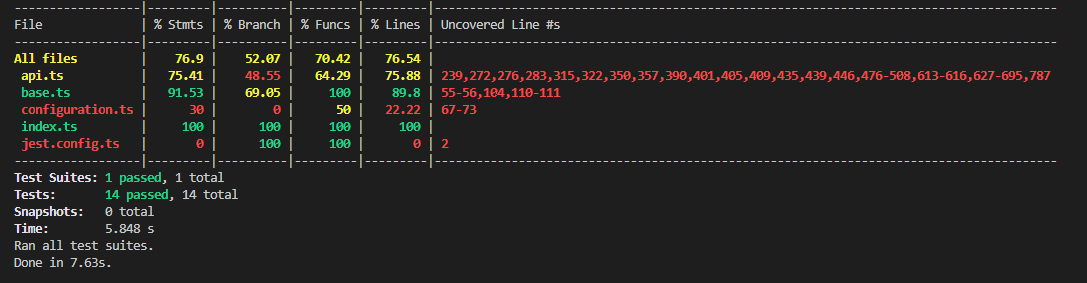
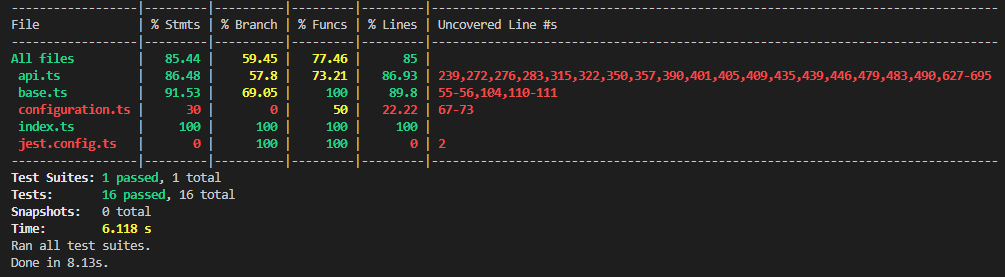
WIP testing tweaks

Changed region(s): [[0.0, 0.1444, 0.9871, 0.9819], [0.0308, 0.0, 0.9871, 0.1155], [0.0, 0.0578, 0.0617, 0.1155]]

diff --git a/FYP_Dissertation_template/chapter6.tex b/FYP_Dissertation_template/chapter6.tex
@@ -179,7 +179,7 @@ The coverage for branches within \textit{MicroserviceClient} is 100\% and for \t
 
 The \textit{Http} coverage fails to reach the 85\% coverage, but upon inspection we can see that it is only one branch that is not covered, the same code mentioned in the statement report analysis. Covering this case has no real bearing on the success of the project, and so I will opt to leave it be for now.
 \subsubsection{Functions}
-Both targeted files reaches 100\% function coverage within the test suites.
+Both targeted files reached 100\% function coverage within the test suites.
 \subsection{The Auto-generated Client with the modifications}
 The report for code coverage of the API client generated from the OpenAPIGenerator templates I modified are shown in Figure 6.3. The unit tests were pulled out of my handcrafted client and so with some very minor method signature changes, the test-suite itself is mostly identical across the two clients.
 \begin{figure}[!htb]
@@ -301,9 +301,9 @@ A paginated response example is shown in Figure 6.6 below.
 \end{figure}
 \FloatBarrier
 \subsubsection{Provide access to a database to support CRUD usage of different HTTP Verbs}
-The micro-service connects to a MongoDB database which stores all of the services resource information. When the createShoppingItems() method is called a new document is created in the ShoppingItems collection and operations fetching, modifying and deleting the resource(s) can be triggered through the API and data-agent.
+The micro-service connects to a MongoDB database which stores all of the services resource information. When the createShoppingItem() method is called a new document is created in the ShoppingItems collection and operations fetching, modifying and deleting the resource(s) can be triggered through the API and data-agent.
 \subsection{The Handcrafted Client}
-Text goes here...
+By evaluating my handcrafted client against its objectives, I can determine whether it successfully fulfilled its function.
 \subsubsection{The Objectives for the Handcrafted Client}
 \begin{enumerate}
     \item \textit{Support all endpoints across the API}
@@ -313,12 +313,89 @@ Text goes here...
     \item \textit{Automatically retry requests that fail with certain HTTP status codes}
 \end{enumerate}
 \subsubsection{Support all endpoints across the API}
+The client contains methods for calling each of the endpoints exposed by the API, with the exception of the endpoint:
+\begin{verbatim}
+    GET /REST/1.0/documentation
+\end{verbatim}
+
+An API consumer would never have to call this endpoint during an integration, and it would instead be used by the API server to create a public facing documentation page.
+
+The methods and their corresponding endpoints are detailed in the table below.
+
+\begin{table}[hbt!]
+\centering
+\caption{Method name to URL mapping for the Handcrafted Client}
+\label{tab:handcrafted-client-ref-table}
+\begin{tabular}{ll}
+\hline
+\multicolumn{1}{|l|}{\textbf{Method Name}}                  & \multicolumn{1}{l|}{\textbf{URL Endpoint}}\\ \hline
+\multicolumn{1}{|l|}{getShoppingItems()}           & \multicolumn{1}{l|}{GET /REST/1.0/shoppingItems}                        \\ \hline
+\multicolumn{1}{|l|}{getShoppingItem()}            & \multicolumn{1}{l|}{GET /REST/1.0/shoppingItems/\{name\}}               \\ \hline
+\multicolumn{1}{|l|}{createShoppingItem()}         & \multicolumn{1}{l|}{POST /REST/1.0/shoppingItems}                       \\ \hline
+\multicolumn{1}{|l|}{deleteShoppingItem()}         & \multicolumn{1}{l|}{DELETE /REST/1.0/shoppingItems/\{name\}}            \\ \hline
+\multicolumn{1}{|l|}{updateShoppingItemCategory()} & \multicolumn{1}{l|}{PUT /REST/1.0/shoppingItems/\{name\}/category}      \\ \hline
+\multicolumn{1}{|l|}{increaseShoppingItemStock()}  & \multicolumn{1}{l|}{PUT /REST/1.0/shoppingItems/\{name\}/increaseStock} \\ \hline
+\multicolumn{1}{|l|}{decreaseShoppingItemStock()}  & \multicolumn{1}{l|}{PUT /REST/1.0/shoppingItems/\{name\}/decreaseStock} \\ \hline               
+\end{tabular}
+\end{table}
+\FloatBarrier
+
 \subsubsection{Provide details of the responses types returned by endpoints}
+The handcrafted client is built using TypeScript which allows us to build up Types for each of the response bodies returned by the API. The Axios library  uses generics to provide details of the expected response type of the request. By casting the return types of each method to the custom response types I defined, Axios will inject this typing into the data object that it returns.
+
+Figure 6.7 shows an example of this casting.
+\begin{figure}[!htb]
+    \caption{Example Response Type Casting}
+\centering
+\includegraphics[scale=0.6]{FYP_Dissertation_template/Figures/handcrafted-client-response-type-casting.PNG}
+\end{figure}
+\FloatBarrier
+
+Consumers of the method can then access all of the fields from the response when the data field is pulled out of the methods output.
+
+Figure 6.8 shows the usage of this data field.
+\begin{figure}[!htb]
+    \caption{Example Usage of the Response Typings}
+\centering
+\includegraphics[scale=0.6]{FYP_Dissertation_template/Figures/handcrafted-client-response-type-return.PNG}
+\end{figure}
+\FloatBarrier
 \subsubsection{Provide details of all input parameters for the endpoints}
+As with detailing the shapes of the responses, TypeScript allows type casting for each of the input parameters for methods. These input parameters each represent the various path, query and request body parameters for the API endpoints, and proper type definitions within the method signatures allow full details of these parameters to be exposed to the user.
+
+Figure 6.9 below shows how the client exposes the typings of these fields through the method signature.
+\begin{figure}[!htb]
+    \caption{Example Usage of the Request Typings}
+\centering
+\includegraphics[scale=0.57]{FYP_Dissertation_template/Figures/handcrafted-client-request-typings.PNG}
+\end{figure}
+\FloatBarrier
 \subsubsection{Ensure all important error information is correctly is passed on}
+The handcrafted client makes use of a custom Axios interceptor to catch and handle any errors thrown during the requests. The fields are pulled out of the error payload and are used to create a local instance of the same ErrorWrapper that the the micro-service itself throws. This ensures that both the server and client in the request cycle are using the same error format when a request fails.
+
+The unit test suite contains a number of test case that explicitly check that these errors are handled as expected.
+
+Figure 6.10 shows a passing unit test that checks the error thrown on a request that is expected to fail.
+\begin{figure}[!htb]
+    \caption{Example Unit Test for Error Handling}
+\centering
+\includegraphics[scale=0.57]{FYP_Dissertation_template/Figures/handcrafted-client-error-handling.PNG}
+\end{figure}
+\FloatBarrier
 \subsubsection{Automatically retry requests that fail with certain HTTP status codes}
-\subsection{The Auto-generated Client}
-Text goes here...
+The client makes use of the \textit{axios-retry} library to retry failed requests. The library injects an Axios interceptor that checks the HTTP status code of the failed response, and if it falls under the subset of codes that should be retried, it will re-submit the request. Each request can be retried a total of 3 times before the request is aborted and an error message is bubbled back up to the user.
+
+The test suite contains a set of tests that validate this behaviour. These tests cover both successful and failed retry attempts and give enough coverage to give confidence in the feature. The key focus for these tests is retrying rate limited requests.
+
+The unit tests covering retrying rate limited requests are shown below in Figure 6.11.
+\begin{figure}[!htb]
+    \caption{Example Unit Test for Retrying Rate Limited Requests}
+\centering
+\includegraphics[scale=0.45]{FYP_Dissertation_template/Figures/rate-limited-handcrafted.PNG}
+\end{figure}
+\FloatBarrier
+\subsection{The Modified Auto-generated Client}
+The final component of the project was taking the default Typescript-Axios template for the OpenAPIGenerator and modifying it to produce a generated client that will satisfy the same objectives as my home-brewed client. Evaluation of the objectives against a client generated for the micro-service API are detailed in the following section, however a client generated for any API would workt.
 \subsubsection{The Objectives for the Auto-generated Client}
 \begin{enumerate}
     \item \textit{Support all endpoints across the API}
@@ -328,7 +405,33 @@ Text goes here...
     \item \textit{Automatically retry requests that fail with certain HTTP status codes}
 \end{enumerate}
 \subsubsection{Support all endpoints across the API}
+The OpenAPIGenerator uses a number of Mustache template files to define the shape of the generated code. Information is pulled out of the OpenAPI Specification for the API and used to populate parameters within these template files. These populated templates are then used by a templating engine to create the files containing the code. As the specification generated by the micro-service contains definitions for each of the API endpoints, the generated client will in turn contain methods handling all of them too. 
+
+The only endpoint missing from the specification, and subsequently the client, is the endpoint serving the API documentation. This however is by design as this endpoint is not needed for operation of the API itself.
+
+The table below shows a mapping of the various API endpoints to the associated client methods.
+
+\begin{table}[hbt!]
+\centering
+\caption{Method name to URL mapping for the Generated Client}
+\label{tab:handcrafted-client-ref-table}
+\begin{tabular}{ll}
+\hline
+\multicolumn{1}{|l|}{\textbf{Method Name}}                  & \multicolumn{1}{l|}{\textbf{URL Endpoint}}\\ \hline
+\multicolumn{1}{|l|}{getShoppingItems()}           & \multicolumn{1}{l|}{GET /REST/1.0/shoppingItems}                        \\ \hline
+\multicolumn{1}{|l|}{getShoppingItem()}            & \multicolumn{1}{l|}{GET /REST/1.0/shoppingItems/\{name\}}               \\ \hline
+\multicolumn{1}{|l|}{createShoppingItem()}         & \multicolumn{1}{l|}{POST /REST/1.0/shoppingItems}                       \\ \hline
+\multicolumn{1}{|l|}{deleteShoppingItem()}         & \multicolumn{1}{l|}{DELETE /REST/1.0/shoppingItems/\{name\}}            \\ \hline
+\multicolumn{1}{|l|}{updateShoppingItemCategory()} & \multicolumn{1}{l|}{PUT /REST/1.0/shoppingItems/\{name\}/category}      \\ \hline
+\multicolumn{1}{|l|}{increaseShoppingItemStock()}  & \multicolumn{1}{l|}{PUT /REST/1.0/shoppingItems/\{name\}/increaseStock} \\ \hline
+\multicolumn{1}{|l|}{decreaseShoppingItemStock()}  & \multicolumn{1}{l|}{PUT /REST/1.0/shoppingItems/\{name\}/decreaseStock} \\ \hline               
+\end{tabular}
+\end{table}
+\FloatBarrier
 \subsubsection{Provide details of the responses types returned by endpoints}
+The templates used for client generation are also based on the Axios library. As with my client, the generated client injects types into the generic Axios method calls to define the shape of the response bodies returned when the requests are made. 
+
+There are however some slight differences between the two clients. Where my custom types were statically defined, the types within the generated are built using information provided from the specification file themselves. Functionally this produces the same result, with the library providing details of the response bodies for each request through the data object returned by Axios.
 \subsubsection{Provide details of all input parameters for the endpoints}
 \subsubsection{Ensure all important error information is correctly is passed on}
 \subsubsection{Automatically retry requests that fail with certain HTTP status codes}
